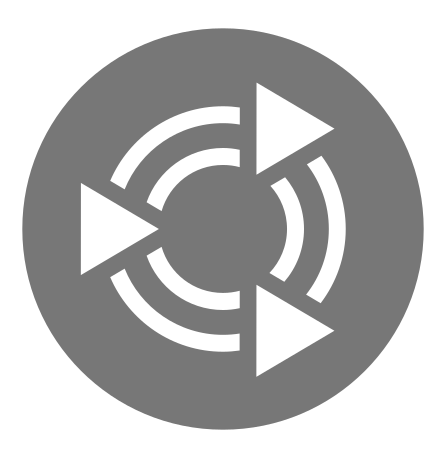
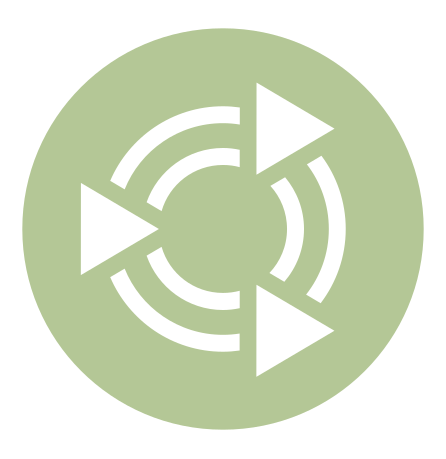
Resigned with lighter background and inverted buttons.

diff --git a/data/software.html b/data/software.html
@@ -45,7 +45,7 @@
           to: Keep an archive of notes, Take notes during meetings or 
           lectures, Organize task lists, Draft blog entries and emails, 
           Do brainstorming. </p>
-          <p class="text-right"><a class="btn btn-xs btn-default" href="cmd://apt?apt:libgtkspell0,scrot,zim"><span class="icon icon-download"></span>&nbsp;Install</a></p>          
+          <p class="text-right"><a class="btn btn-xs btn-inverse" href="cmd://apt?apt:libgtkspell0,scrot,zim"><span class="icon icon-download"></span>&nbsp;Install</a></p>          
           <hr class="soften" />
           
           <h2>Graphics</h2>
@@ -60,7 +60,7 @@
           image file formats are supported, including JPEG, Photoshop 
           (.psd), and Paint Shop Pro (.psp) files. It can also be used 
           to scan and print photos.</p>
-          <p class="text-right"><a class="btn btn-xs btn-default" href="cmd://apt?apt:gimp"><span class="icon icon-download"></span>&nbsp;Install</a></p>
+          <p class="text-right"><a class="btn btn-xs btn-inverse" href="cmd://apt?apt:gimp"><span class="icon icon-download"></span>&nbsp;Install</a></p>
           <hr class="soften" />
           
           <p><img class="left" src="img/applications/gpick.png" /></p>
@@ -68,7 +68,7 @@
           colors from anywhere on the screen, mix them to get new 
           colors, generate shades and tints, and export palettes to 
           common file formats or simply copy them to the clipboard.</p>
-          <p class="text-right"><a class="btn btn-xs btn-default" href="cmd://apt?apt:gpick"><span class="icon icon-download"></span>&nbsp;Install</a></p>
+          <p class="text-right"><a class="btn btn-xs btn-inverse" href="cmd://apt?apt:gpick"><span class="icon icon-download"></span>&nbsp;Install</a></p>
           <hr class="soften" />
           
           <p><img class="left" src="img/applications/inkscape.png" /></p>
@@ -84,7 +84,7 @@
           the import and export features are provided using the 
           packages dia, libwmf-bin, pstoedit, skencil, imagemagick, and 
           perlmagick.</p>
-          <p class="text-right"><a class="btn btn-xs btn-default" href="cmd://apt?apt:inkscape"><span class="icon icon-download"></span>&nbsp;Install</a></p>
+          <p class="text-right"><a class="btn btn-xs btn-inverse" href="cmd://apt?apt:inkscape"><span class="icon icon-download"></span>&nbsp;Install</a></p>
           <hr class="soften" />          
           
           <h2>Internet</h2>
@@ -94,7 +94,7 @@
           expressive applications, content, and videos across browsers
           and operating systems. This package provides plugins
           compatible with both Chromium and Firefox web browsers.</p>
-          <p class="text-right"><a class="btn btn-xs btn-default" href="cmd://apt?apt:flashplugin-installer"><span class="icon icon-download"></span>&nbsp;Install</a></p>
+          <p class="text-right"><a class="btn btn-xs btn-inverse" href="cmd://apt?apt:flashplugin-installer"><span class="icon icon-download"></span>&nbsp;Install</a></p>
           <hr class="soften" />
           
           <p><img class="left" src="img/applications/chromium.png" /></p>
@@ -102,7 +102,7 @@
           build a safer, faster, and more stable way for all Internet 
           users to experience the web. Chromium serves as a base for 
           Google Chrome.</p>
-          <p class="text-right"><a class="btn btn-xs btn-default" href="cmd://apt?apt:chromium-browser"><span class="icon icon-download"></span>&nbsp;Install</a></p>          
+          <p class="text-right"><a class="btn btn-xs btn-inverse" href="cmd://apt?apt:chromium-browser"><span class="icon icon-download"></span>&nbsp;Install</a></p>          
           <hr class="soften" />
                     
           <h2>Programming</h2>
@@ -115,7 +115,7 @@
           folding, symbol lists, embedded terminal emulation and many 
           supported languages C/C++, HTML/CSS, Java. Markdown, Pascal, 
           PHP, Python, Perl, Pascal.</p>
-          <p class="text-right"><a class="btn btn-xs btn-default" href="cmd://apt?apt:geany,geany-plugins,geany-plugin-commander,geany-plugin-markdown,geany-plugin-miniscript,geany-plugin-scope,geany-plugin-vc"><span class="icon icon-download"></span>&nbsp;Install</a></p>
+          <p class="text-right"><a class="btn btn-xs btn-inverse" href="cmd://apt?apt:geany,geany-plugins,geany-plugin-commander,geany-plugin-markdown,geany-plugin-miniscript,geany-plugin-scope,geany-plugin-vc"><span class="icon icon-download"></span>&nbsp;Install</a></p>
           <hr class="soften" />
                     
           <p><img class="left" src="img/applications/meld.png" /></p>
@@ -125,7 +125,7 @@
           Codeville, CVS, Darcs, Fossil SCM, Git, Mercurial, Monotone,
           Subversion), as well as the  ability  to manually and
           automatically merge file differences.</p>
-          <p class="text-right"><a class="btn btn-xs btn-default" href="cmd://apt?apt:meld"><span class="icon icon-download"></span>&nbsp;Install</a></p>
+          <p class="text-right"><a class="btn btn-xs btn-inverse" href="cmd://apt?apt:meld"><span class="icon icon-download"></span>&nbsp;Install</a></p>
           <hr class="soften" />
           
           <h2>System Tools</h2>
@@ -134,7 +134,7 @@
           efficient way of filling a large area of screen space with 
           terminals. The user can have multiple terminals in one window 
           and use key bindings to switch between them.</p>
-          <p class="text-right"><a class="btn btn-xs btn-default" href="cmd://apt?apt:terminator"><span class="icon icon-download"></span>&nbsp;Install</a></p>
+          <p class="text-right"><a class="btn btn-xs btn-inverse" href="cmd://apt?apt:terminator"><span class="icon icon-download"></span>&nbsp;Install</a></p>
           <hr class="soften" />          
           
         </div>

diff --git a/data/gettingstarted.html b/data/gettingstarted.html
@@ -28,18 +28,24 @@
           <h2>Drivers</h2>
           <p>Your computer may require additional drivers to functional
           correctly. Go and install them now.</p>
-          <div align="center"><a class="btn btn-lg btn-default" href="cmd://drivers"><span class="icon icon-3x icon-wrench"></span>&nbsp; Install Drivers</a></div>
+          <div align="center"><a class="btn btn-lg btn-inverse" href="cmd://drivers"><span class="icon icon-3x icon-wrench"></span>&nbsp; Install Drivers</a></div>
+          <hr class="soften" />
+          
           <h2>Language Support</h2>
           <p>You computer may require updates to your language and
           localisation settings, or you may want to install additional
           language support.</p>
-          <div align="center"><a class="btn btn-lg btn-default" href="cmd://language"><span class="icon icon-3x icon-bullhorn"></span>&nbsp; Language Support</a></div>
+          <div align="center"><a class="btn btn-lg btn-inverse" href="cmd://language"><span class="icon icon-3x icon-bullhorn"></span>&nbsp; Language Support</a></div>
+          <hr class="soften" />
+          
           <h2>Software Updates</h2>
           <p>Ubuntu MATE periodically will check to see if new software
           and security updates are available for your computer. If you
           have just installed Ubuntu MATE, you might want to do this now.
           </p>
-          <div align="center"><a class="btn btn-lg btn-default" href="cmd://update"><span class="icon icon-3x icon-refresh"></span>&nbsp; Software Updates</a></div>          
+          <div align="center"><a class="btn btn-lg btn-inverse" href="cmd://update"><span class="icon icon-3x icon-refresh"></span>&nbsp; Software Updates</a></div>
+          <hr class="soften" />
+          
           <h2>User Interface</h2>
           <p>Ubuntu MATE provide a unique tool to transform the user
           interface. It can be used to quickly setup the user interface
@@ -47,12 +53,16 @@
           and feel. The <b>Redmond</b> layouts are most similar to
           Microsoft Windows and <b>Cupertino</b> layouts are most
           similar to Apple Mac OSX.</p>
-          <div align="center"><a class="btn btn-lg btn-default" href="cmd://tweak"><span class="icon icon-3x icon-adjust"></span>&nbsp; User Interface</a></div>          
+          <div align="center"><a class="btn btn-lg btn-inverse" href="cmd://tweak"><span class="icon icon-3x icon-adjust"></span>&nbsp; User Interface</a></div>
+          <hr class="soften" />
+          
           <h2>Control Center</h2>
           <p>The utilities mentioned above are all part of the extensive
           Control Center that Ubuntu MATE provides. You can configure
           just about every aspect of your computer from the Control Center.</p>
-          <div align="center"><a class="btn btn-lg btn-default" href="cmd://control"><span class="icon icon-3x icon-cog"></span>&nbsp; Control Center</a></div>
+          <div align="center"><a class="btn btn-lg btn-inverse" href="cmd://control"><span class="icon icon-3x icon-cog"></span>&nbsp; Control Center</a></div>
+          <hr class="soften" />
+          
           <h2>Keyboard Shortcuts</h2>
           <p>Ubuntu MATE has many keyboard shortcuts that help make using
           your computer more efficient.</p>

diff --git a/data/features.html b/data/features.html
@@ -31,14 +31,14 @@
           of additional applications to turn your computer into a truly 
           powerful workstation.</p>
           <h4>Productivity</h4>          
-          <p><img class="left" src="./img/applications/firefox.png" /></p>
+          <p><img class="left" src="img/applications/firefox.png" /></p>
           <p>Firefox delivers safe, easy web browsing. A familiar user 
           interface, enhanced security features including protection 
           from online identity theft, and integrated search let you get 
           the most out of the web.</p>
           <hr class="soften" />
           
-          <p><img class="left" src="./img/applications/thunderbird.png" /></p>
+          <p><img class="left" src="img/applications/thunderbird.png" /></p>
           <p>Thunderbird is a full-featured email, RSS and newsgroup 
           client that makes emailing safer, faster and easier than ever 
           before. It supports different mail accounts (POP, IMAP, 
@@ -49,7 +49,7 @@
           It also features unrivalled extensibility.</p>
           <hr class="soften" />
           
-          <p><img class="left" src="./img/applications/libreoffice.png" /></p>
+          <p><img class="left" src="img/applications/libreoffice.png" /></p>
           <p>LibreOffice is a full-featured office productivity suite 
           that provides a near drop-in replacement for Microsoft(R) 
           Office; its clean interface and powerful tools let you 
@@ -62,7 +62,7 @@
           database frontend, and Math for editing mathematics.</p>
           
           <h4>Entertainment</h4>          
-          <p><img class="left" src="./img/applications/rhythmbox.png" /></p>
+          <p><img class="left" src="img/applications/rhythmbox.png" /></p>
           <p>Rhythmbox is a very easy to use music playing and 
           management program which supports a wide range of audio 
           formats (including mp3 and ogg). Originally inspired by 
@@ -72,7 +72,7 @@
           and Podcasts.</p>
           <hr class="soften" />
           
-          <p><img class="left" src="./img/applications/shotwell.png" /></p>
+          <p><img class="left" src="img/applications/shotwell.png" /></p>
           <p>Shotwell is a digital photo organizer. It allows you to 
           import photos from disk or camera, organize them in various 
           ways, view them in full-window or fullscreen mode, and export 
@@ -80,7 +80,7 @@
           different image formats, also including raw CR2 files.</p>
           <hr class="soften" />
           
-          <p><img class="left" src="./img/applications/vlc.png" /></p>
+          <p><img class="left" src="img/applications/vlc.png" /></p>
           <p>VLC is the VideoLAN project's media player. It plays MPEG, 
           MPEG-2, MPEG-4, DivX, MOV, WMV, QuickTime, WebM, FLAC, MP3, 
           Ogg/Vorbis files, DVDs, VCDs, podcasts, and multimedia 

diff --git a/data/index.html b/data/index.html
@@ -33,20 +33,20 @@
         <div class="span4 btn-showcase">
           <!--Body content-->
           <h4>Documentation</h4>
-          <a class="btn btn-block" href="./introduction.html"><span class="icon icon-2x icon-book"></span>&nbsp;Introduction</a>
-          <a class="btn btn-block" href="./features.html"><span class="icon icon-2x icon-star"></span>&nbsp;Features</a>
-          <a class="btn btn-block" href="./gettingstarted.html"><span class="icon icon-2x icon-info-sign"></span>&nbsp;Getting Started</a>          
+          <a class="btn btn-block btn-inverse" href="./introduction.html"><span class="icon icon-2x icon-book"></span>&nbsp;Introduction</a>
+          <a class="btn btn-block btn-inverse" href="./features.html"><span class="icon icon-2x icon-star"></span>&nbsp;Features</a>
+          <a class="btn btn-block btn-inverse" href="./gettingstarted.html"><span class="icon icon-2x icon-info-sign"></span>&nbsp;Getting Started</a>          
         </div>
         <div class="span4 btn-showcase">
           <h4>Support</h4>          
-          <a class="btn btn-block" href="./community.html"><span class="icon icon-2x icon-group"></span>&nbsp;Community</a>
-          <a class="btn btn-block" href="./chatroom.html"><span class="icon icon-2x icon-comment"></span>&nbsp;Chat Room</a>
-          <a class="btn btn-block" href="./software.html"><span class="icon icon-2x icon-download"></span>&nbsp;Install Software</a>
+          <a class="btn btn-block btn-inverse" href="./community.html"><span class="icon icon-2x icon-group"></span>&nbsp;Community</a>
+          <a class="btn btn-block btn-inverse" href="./chatroom.html"><span class="icon icon-2x icon-comment"></span>&nbsp;Chat Room</a>
+          <a class="btn btn-block btn-inverse" href="./software.html"><span class="icon icon-2x icon-download"></span>&nbsp;Install Software</a>
         </div>
         <div class="span4 btn-showcase">
           <h4>Project</h4>
-          <a class="btn btn-block" href="./getinvolved.html"><span class="icon icon-2x icon-hand-up"></span>&nbsp;Get Involved</a>
-          <a class="btn btn-block" href="./shop.html"><span class="icon icon-2x icon-gift"></span>&nbsp;Shop</a>
+          <a class="btn btn-block btn-inverse" href="./getinvolved.html"><span class="icon icon-2x icon-hand-up"></span>&nbsp;Get Involved</a>
+          <a class="btn btn-block btn-inverse" href="./shop.html"><span class="icon icon-2x icon-gift"></span>&nbsp;Shop</a>
           <a class="btn btn-block btn-success" href="./donate.html"><span class="icon icon-2x icon-heart"></span>&nbsp;Donate</a>          
         </div>
       </div>

diff --git a/data/chatroom.html b/data/chatroom.html
@@ -34,7 +34,7 @@
           for someone to reply. Just be patient and don't disconnect 
           right away.</strong></p>
           <div id="social" align="center">
-          <a class="btn btn-lg btn-success" href="cmd://chatroom"><span class="icon icon-3x icon-comment"></span> Chat</a>
+          <a class="btn btn-lg btn-inverse" href="cmd://chatroom"><span class="icon icon-3x icon-comment"></span> Chat</a>
           </div>
         </div>
       </div>
@@ -42,9 +42,10 @@
     <div id="footer" class="bottom">
       <div class="footer-content">
         <div id="social" class="pull-left">
-          <a href="cmd://link?https://plus.google.com/communities/108331279007926658904"><img src="img/social-google.png"></a>
-          <a href="cmd://link?https://www.facebook.com/UbuntuMATEedition/"><img src="img/social-facebook.png"></a>
-          <a href="cmd://link?https://twitter.com/ubuntu_mate"><img src="img/social-twitter.png"></a>
+          <a href="cmd://link?https://plus.google.com/communities/108331279007926658904"><img src="img/icons/google+-24x24.png"></a>
+          <a href="cmd://link?https://www.facebook.com/UbuntuMATEedition/"><img src="img/icons/facebook-24x24.png"></a>
+          <a href="cmd://link?https://twitter.com/ubuntu_mate"><img src="img/icons/twitter-24x24.png"></a>
+          <a href="cmd://link?https://ubuntu-mate.org"><img src="img/icons/website-24x24.png"></a>
         </div>
         <div class="form">
           <a href="cmd://quit" class="btn btn-inverse">Close</a>

diff --git a/data/community.html b/data/community.html
@@ -31,7 +31,7 @@
           best place to play an active role in the Ubuntu MATE 
           community and to help shape it's direction is via our forum.</p>
           <div id="social" align="center">
-          <a class="btn btn-lg btn-success" href="cmd://link?https://ubuntu-mate.community"><span class="icon icon-3x icon-group"></span> Forum</a>
+          <a class="btn btn-lg btn-inverse" href="cmd://link?https://ubuntu-mate.community"><span class="icon icon-3x icon-group"></span> Forum</a>
           </div>
           <h2>Social Networks</h2>
           <p>Ubuntu MATE is active on the following social networks.</p>

diff --git a/data/shop.html b/data/shop.html
@@ -30,7 +30,7 @@
           that come pre-installed with Ubuntu MATE to clothing and
           apparel that are all Ubuntu MATE branded. Every item sold pays
           a small commission to the Ubuntu MATE project.
-          <div align="center"><a class="btn btn-lg btn-success" href="cmd://link?http://ubuntu-mate.boutique"><span class="icon icon-3x icon-gift"></span> Shop</a></div>
+          <div align="center"><a class="btn btn-lg btn-inverse" href="cmd://link?http://ubuntu-mate.boutique"><span class="icon icon-3x icon-gift"></span> Shop</a></div>
         </div>
       </div>
     </div>

diff --git a/data/css/welcome.css b/data/css/welcome.css
@@ -43,13 +43,11 @@ p.no-space {
   background: url("../img/background.png");
   background-repeat:no-repeat;
   background-position:center;
-  /*background-color:#f4f4f4;*/
-  background-color:rgb(184,184,184)
+  background-color:#f4f4f4;
 }
 
 .backdrop-simple {
-  /*background-color:#f4f4f4;*/
-  background-color:rgb(184,184,184)
+  background-color:#f4f4f4;
 }
 
 /*
